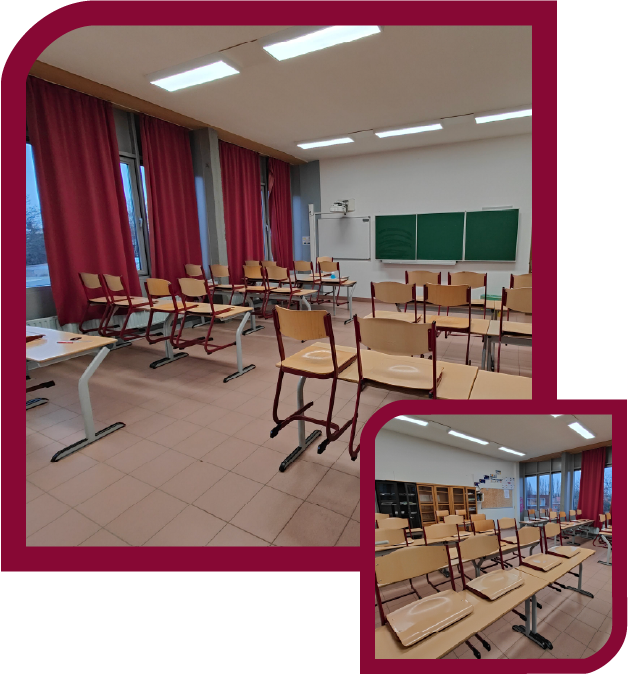
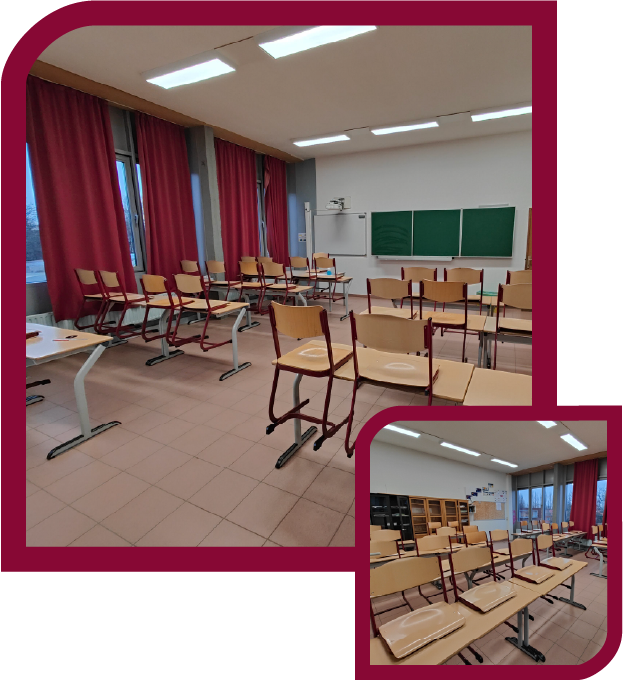
Aanpassingen Slideshow

diff --git a/proposal1/index.html b/proposal1/index.html
@@ -22,7 +22,7 @@
 
 <body>
 	<div class="wrapper">
-		<!--<div id="grid">
+		<div id="grid">
             <p></p>
             <p></p>
             <p></p>
@@ -35,7 +35,7 @@
             <p></p>
             <p></p>
             <p></p>
-        </div> -->
+        </div> 
 
 		<header>
 			<div class="topnav" id="myTopnav">
@@ -125,15 +125,15 @@
 
 			<div class="slideshow">
 				<div class="mySlides fade">
-					<img src="images/Hielbib2.jpg" class="imgSlideshow" />
+					<img src="images/Slideshow_labo.jpg" class="imgSlideshow" />
 				</div>
 
 				<div class="mySlides fade">
-					<img src="images/Hielbib.jpg" class="imgSlideshow" />
+					<img src="images/Slideshow_hospiteerlessen.jpg" class="imgSlideshow" />
 				</div>
 
 				<div class="mySlides fade">
-					<img src="images/Hielbib3.jpg" class="imgSlideshow" />
+					<img src="images/Slideshow_DomeinHofstade.jpg" class="imgSlideshow" />
 				</div>
 			</div>
 			<br />

diff --git a/proposal1/css/slideshow.css b/proposal1/css/slideshow.css
@@ -8,7 +8,6 @@ img {vertical-align: middle;}
   max-width: 600px;
   position: relative;
   margin: auto;
-
 }
 
 /* Caption text
@@ -23,7 +22,7 @@ img {vertical-align: middle;}
 } */
 
 .imgSlideshow {
-  width: 100%;
+  width: 90%;
   border: 25px solid #8b0834;
   border-radius: 80px 0px;
 }
